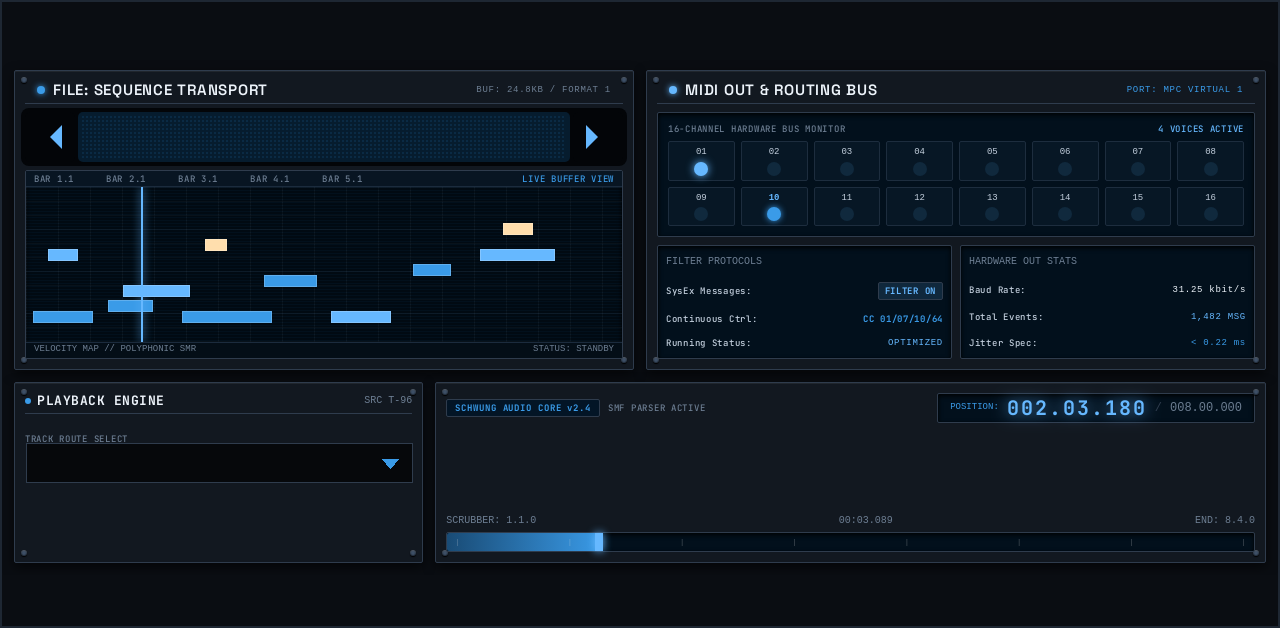
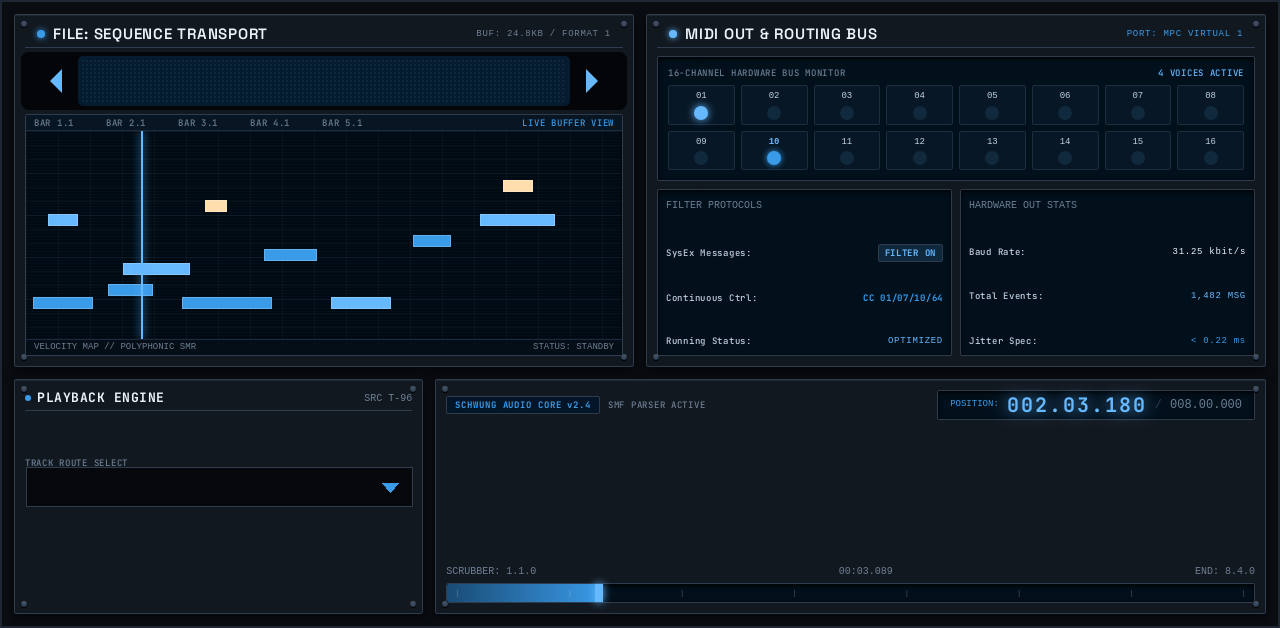
30 screens fill the plugin area (no empty bands above and below)
Rebuilt with the converter's `fill`: 303 (Open303), Aphex, Denis, Elements, Grids, GrooveBank, Hank,
Helm, Hera, Hush One, LibPO32, Marbles (SETUP only), MazeLite, MIDI Player, MonkSynth, Moog
(RaffoSynth: its frame centred), Mr Drums, Mr Hyde, Noisemaker, OB-Xd, PixelWalkers, Plaits, Rampage
(Dual Slope), Rings, Rings FX, SuperArp, Tablor, Verglas, Warps, Wurl. Same controls, parameters and
Q-Link order; only positions moved. Moog's and Noisemaker's hand edits (FILTER switch, BANK, the
shorter scope, design QA moves) carried over. Helm's switch captions now show the parameters' names.

Builds PASSED (offline test), check_skin OK for all 30, screenshots refreshed from the engine's
state. The .so files are the committed ones (only the screens changed). Not on a device yet.

diff --git a/README.md b/README.md
@@ -65,6 +65,9 @@ Use one or the other for this plugin: both register the same plugin (same uid), 
 - `mpc/` = the MIDI FX adapter (`dev-tools/midifx/schwung_midi_fx.c`), Schwung's host headers and `wrapper/engine.h`. The adapter opens an ALSA MIDI port named after the plugin, sends the module's notes there, and turns MPC's transport (tempo, position, play/stop) into the 24-PPQN MIDI clock and Start/Stop the module expects.
 - `mpc/host/plugin_api_v1.h`: its `offsetof(reserved) == 120` assert is a 64-bit (Move) layout check, so it is skipped on the MPC's 32-bit ARM (the module and adapter share the one header).
 - New touchscreen page from its Google Stitch design (`design/`): the design's artwork as the background, its own knob art, live names and values, and controls the design left out added in its style (see RESKINNING.md).
+- **Full-height screen (2026-10-18)**: the panels fill MPC's 1280 × 628 plugin area. The Stitch conversion used to
+  centre the design at the height it had under its own header and footer (MPC draws its own), which left an empty
+  band above and below.
 
 ## Files
 
